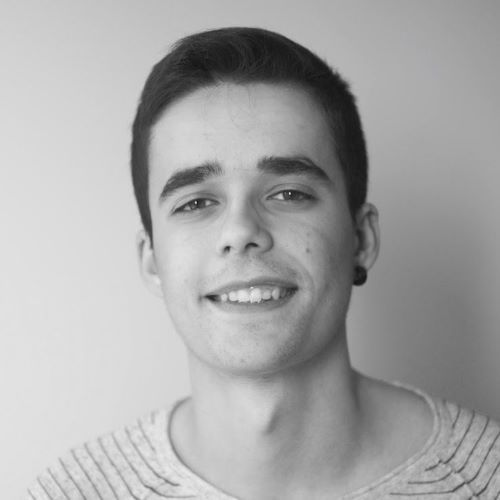
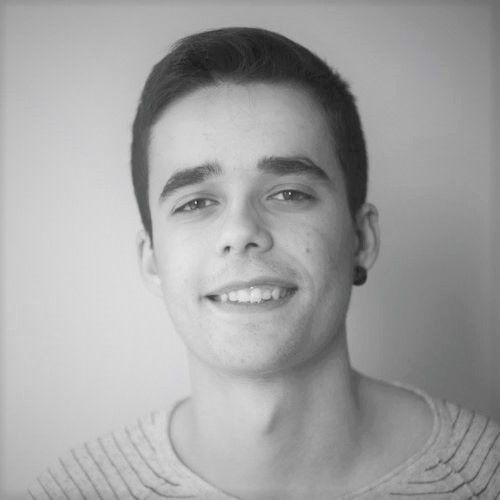
Fix message and increase brightness of pic

diff --git a/components/Page.tsx b/components/Page.tsx
@@ -158,12 +158,12 @@ const ChangeThemeButton = ({ setTheme }) => {
   return (
     <TopLeftFloat>
       <CustomButton
-        onMouseEnter={() => setShowMessage(!showMessage)}
-        onMouseLeave={() => setShowMessage(!showMessage)}
+        onMouseEnter={() => setShowMessage(true)}
+        onMouseLeave={() => setShowMessage(false)}
         onClick={ev => {
           const nextTheme = getNextTheme()
           setTheme(nextTheme)
-          setShowMessage(showMessage) // rerender to get the new fg color in the message
+          setShowMessage(false)
           currentTheme = nextTheme
         }}
       >
